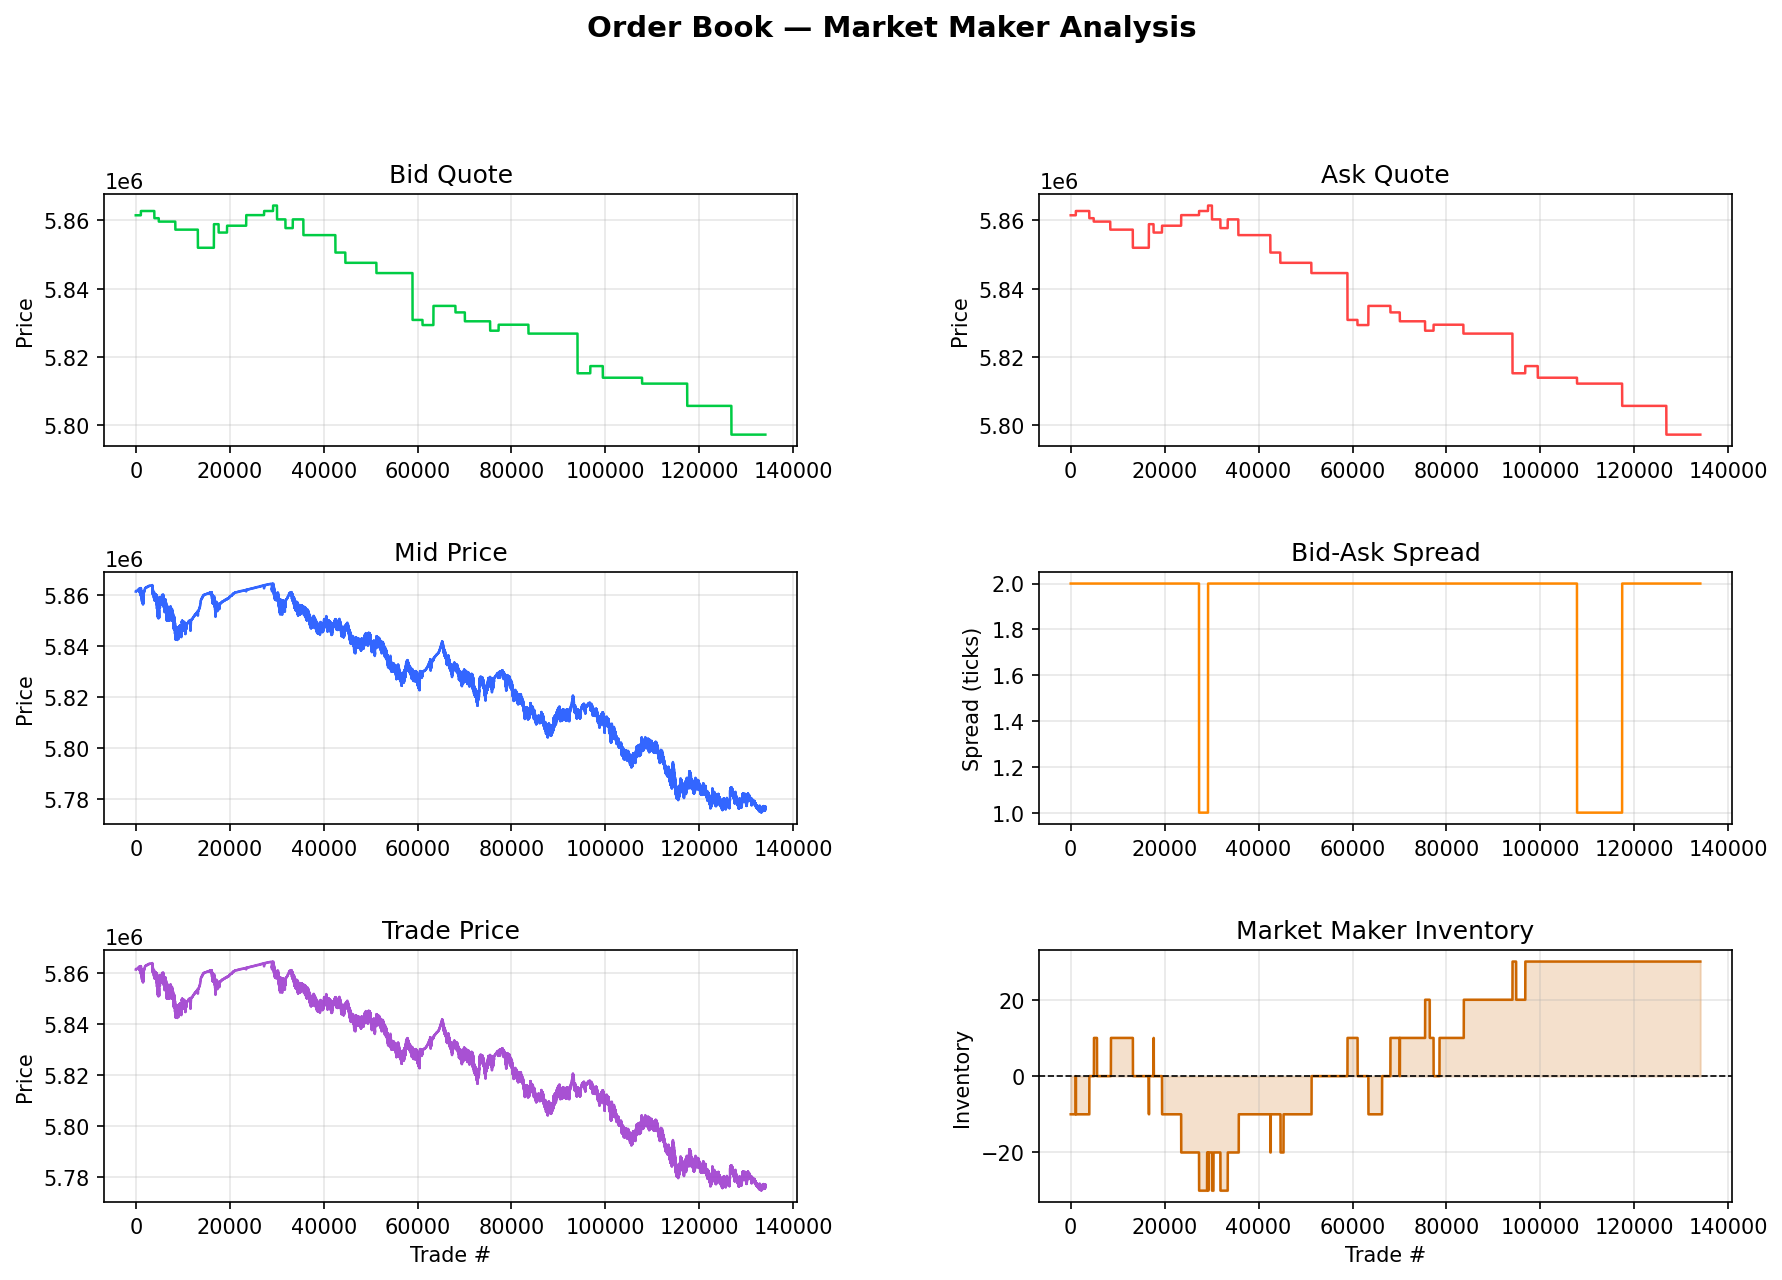
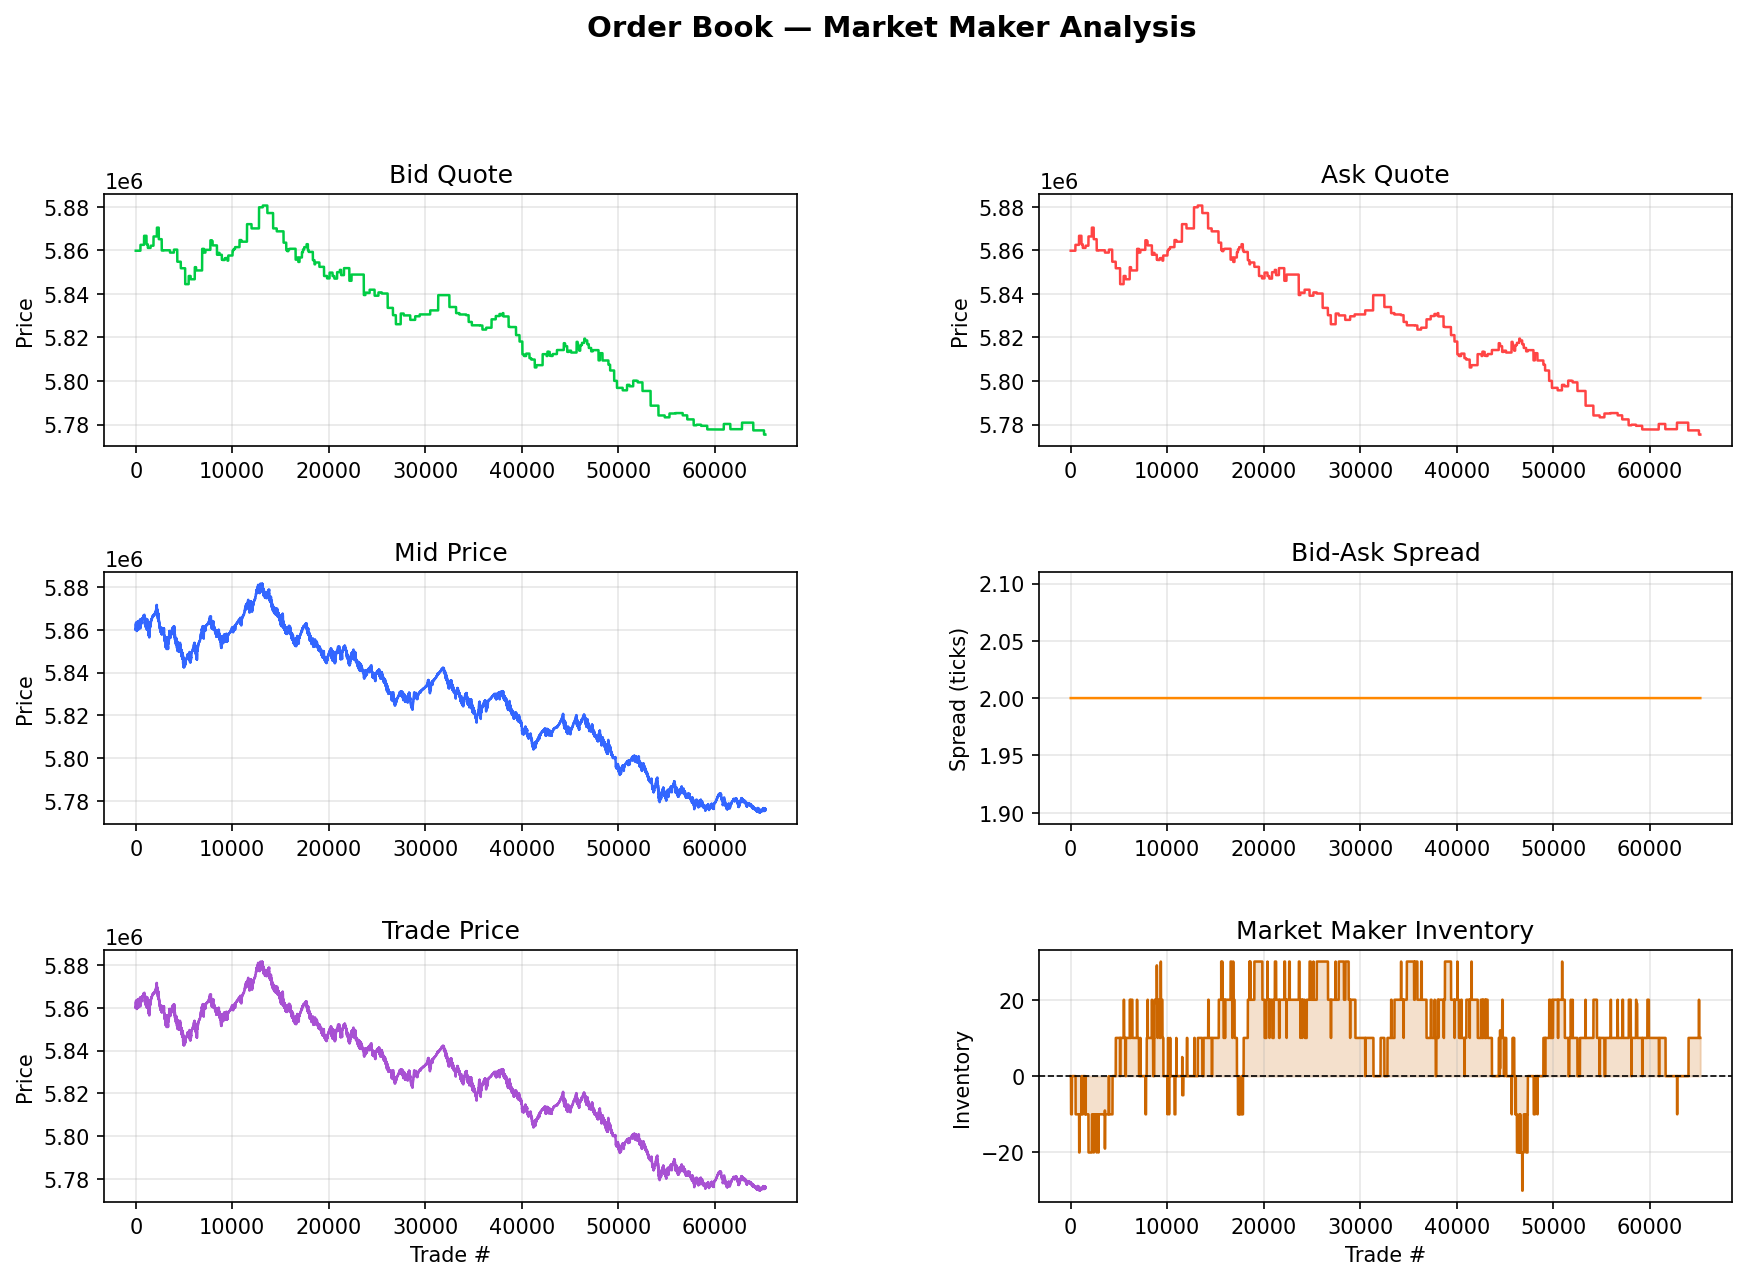
bug fixes and refining the backtest

diff --git a/include/data/lobster_parser.hpp b/include/data/lobster_parser.hpp
@@ -5,6 +5,7 @@
 #include <sstream>
 #include <atomic>
 #include <memory>
+#include <unordered_map>
 #include "core/order.hpp"
 #include "engine/order_queue.hpp"
 #include <thread>
@@ -17,16 +18,26 @@ private:
     OrderQueue &order_queue_;
     uint64_t total_messages_;
     std::shared_ptr<std::atomic<uint64_t>> messages_processed_;
+    std::unordered_map<uint64_t, uint64_t> id_map_; // lobster_id -> generated_id
 
-    static uint64_t countLines(const std::string &path) {
+    static uint64_t countExecutions(const std::string &path) {
         std::ifstream f(path);
-        return std::count(std::istreambuf_iterator<char>(f), std::istreambuf_iterator<char>(), '\n');
+        std::string line, token;
+        uint64_t count = 0;
+        while (std::getline(f, line)) {
+            std::istringstream ss(line);
+            std::getline(ss, token, ','); // time
+            std::getline(ss, token, ','); // type
+            int type = std::stoi(token);
+            if (type == 4 || type == 5) count++;
+        }
+        return count;
     }
 
 public:
     LobsterParser(const std::string &message_path, OrderQueue &oq)
         : message_file_(message_path), order_queue_(oq),
-          total_messages_(countLines(message_path)),
+          total_messages_(countExecutions(message_path)),
           messages_processed_(std::make_shared<std::atomic<uint64_t>>(0)) {}
 
     uint64_t totalMessages() const { return total_messages_; }
@@ -40,7 +51,6 @@ public:
         int count = 0;
         while (std::getline(message_file_, line))
         {
-            messages_processed_->fetch_add(1, std::memory_order_relaxed);
             std::stringstream ss(line);
             std::string token;
             
@@ -65,8 +75,10 @@ public:
             direction = std::stoi(token);
             if (type == 1)
             {
+                uint64_t gen_id = Order::generateId();
+                id_map_[order_id] = gen_id;
                 Order o;
-                o.id = Order::generateId();
+                o.id = gen_id;
                 o.price = price;
                 o.quantity = size;
                 o.side = (direction == 1) ? Side::BID : Side::ASK;
@@ -74,24 +86,30 @@ public:
                 o.timestamp_ns = static_cast<int64_t>(time * 1e9);
                 order_queue_.push(o);
                 count++;
-                if(count%100==0){
+                if (count % 100 == 0)
                     std::this_thread::sleep_for(std::chrono::microseconds(1));
-                }
             }
             else if (type == 2 || type == 3)
             {
+                auto it = id_map_.find(order_id);
+                if (it == id_map_.end()) continue;
                 Order o;
-                o.id = order_id;
+                o.id = it->second;
                 o.type = Type::CANCEL;
+                id_map_.erase(it);
                 order_queue_.push(o);
             }
-            else if(type==4){
+            else if (type == 4 || type == 5)
+            {
+                messages_processed_->fetch_add(1, std::memory_order_relaxed);
+                uint64_t gen_id = Order::generateId();
+                id_map_[order_id] = gen_id;
                 Order o;
                 o.side = (direction == 1) ? Side::ASK : Side::BID;
                 o.type = Type::LIMIT;
                 o.price = price;
                 o.quantity = size;
-                o.id = Order::generateId();
+                o.id = gen_id;
                 order_queue_.push(o);
             }
         }

diff --git a/include/strategy/market_maker.hpp b/include/strategy/market_maker.hpp
@@ -36,7 +36,6 @@ private:
     size_t vol_window_;
     std::shared_ptr<std::atomic<uint64_t>> messages_processed_;
     uint64_t total_messages_;
-    uint64_t local_step_ = 0;
 
 public:
     MarketMaker(SPSCQueue<Trade> &tq, OrderQueue &oq, OrderBook &ob, Logger &log,
@@ -44,7 +43,7 @@ public:
                 std::shared_ptr<std::atomic<uint64_t>> messages_processed,
                 uint64_t total_messages,
                 double max_inventory = 50.0, uint64_t quote_size = 10,
-                size_t vol_window = 5000)
+                size_t vol_window = 500)
         : trade_queue_(tq), order_queue_(oq), order_book_(ob), logger_(log),
           sigma_(sigma), kappa_(kappa), gamma_(gamma), mid_price_(95.0), inventory_(0.0),
           bid_id_(0), ask_id_(0), max_inventory_(max_inventory), quote_size_(quote_size),
@@ -86,7 +85,6 @@ public:
                         logger_.log(event);
                     }
                     trade_count++;
-                    local_step_++;
                 }
                 Order c1, c2;
                 c1.type = Type::CANCEL;
@@ -96,8 +94,13 @@ public:
                 order_queue_.push(c1);
                 order_queue_.push(c2);
                 auto [best_bid, best_ask] = order_book_.getBBO();
-                if (best_bid > 0 && best_ask > 0)
+                if (best_bid > 0 && best_ask > 0) {
                     mid_price_ = (best_bid + best_ask) / 2.0;
+                    double mid_dollars = mid_price_ / 100.0;
+                    price_history_.push_back(mid_dollars);
+                    if (price_history_.size() > vol_window_)
+                        price_history_.pop_front();
+                }
                 auto [bid, ask] = computeQuotes();
                 if (bid == 0 && ask == 0)
                 {
@@ -161,7 +164,8 @@ public:
             return {0, 0};
 
         double sigma = computeRollingSigma();
-        double T = std::max(0.01, 1.0 - (double)local_step_ / total_messages_);
+        double T = std::max(0.01, 1.0 - static_cast<double>(messages_processed_->load(std::memory_order_relaxed)) /
+                                         static_cast<double>(total_messages_));
         double mid_dollars = mid_price_ / 100.0;
         double r = mid_dollars - inventory_ * gamma_ * sigma * sigma * T;
         double delta = gamma_ * sigma * sigma * T + (2.0 / gamma_) * std::log(1.0 + gamma_ / kappa_);
